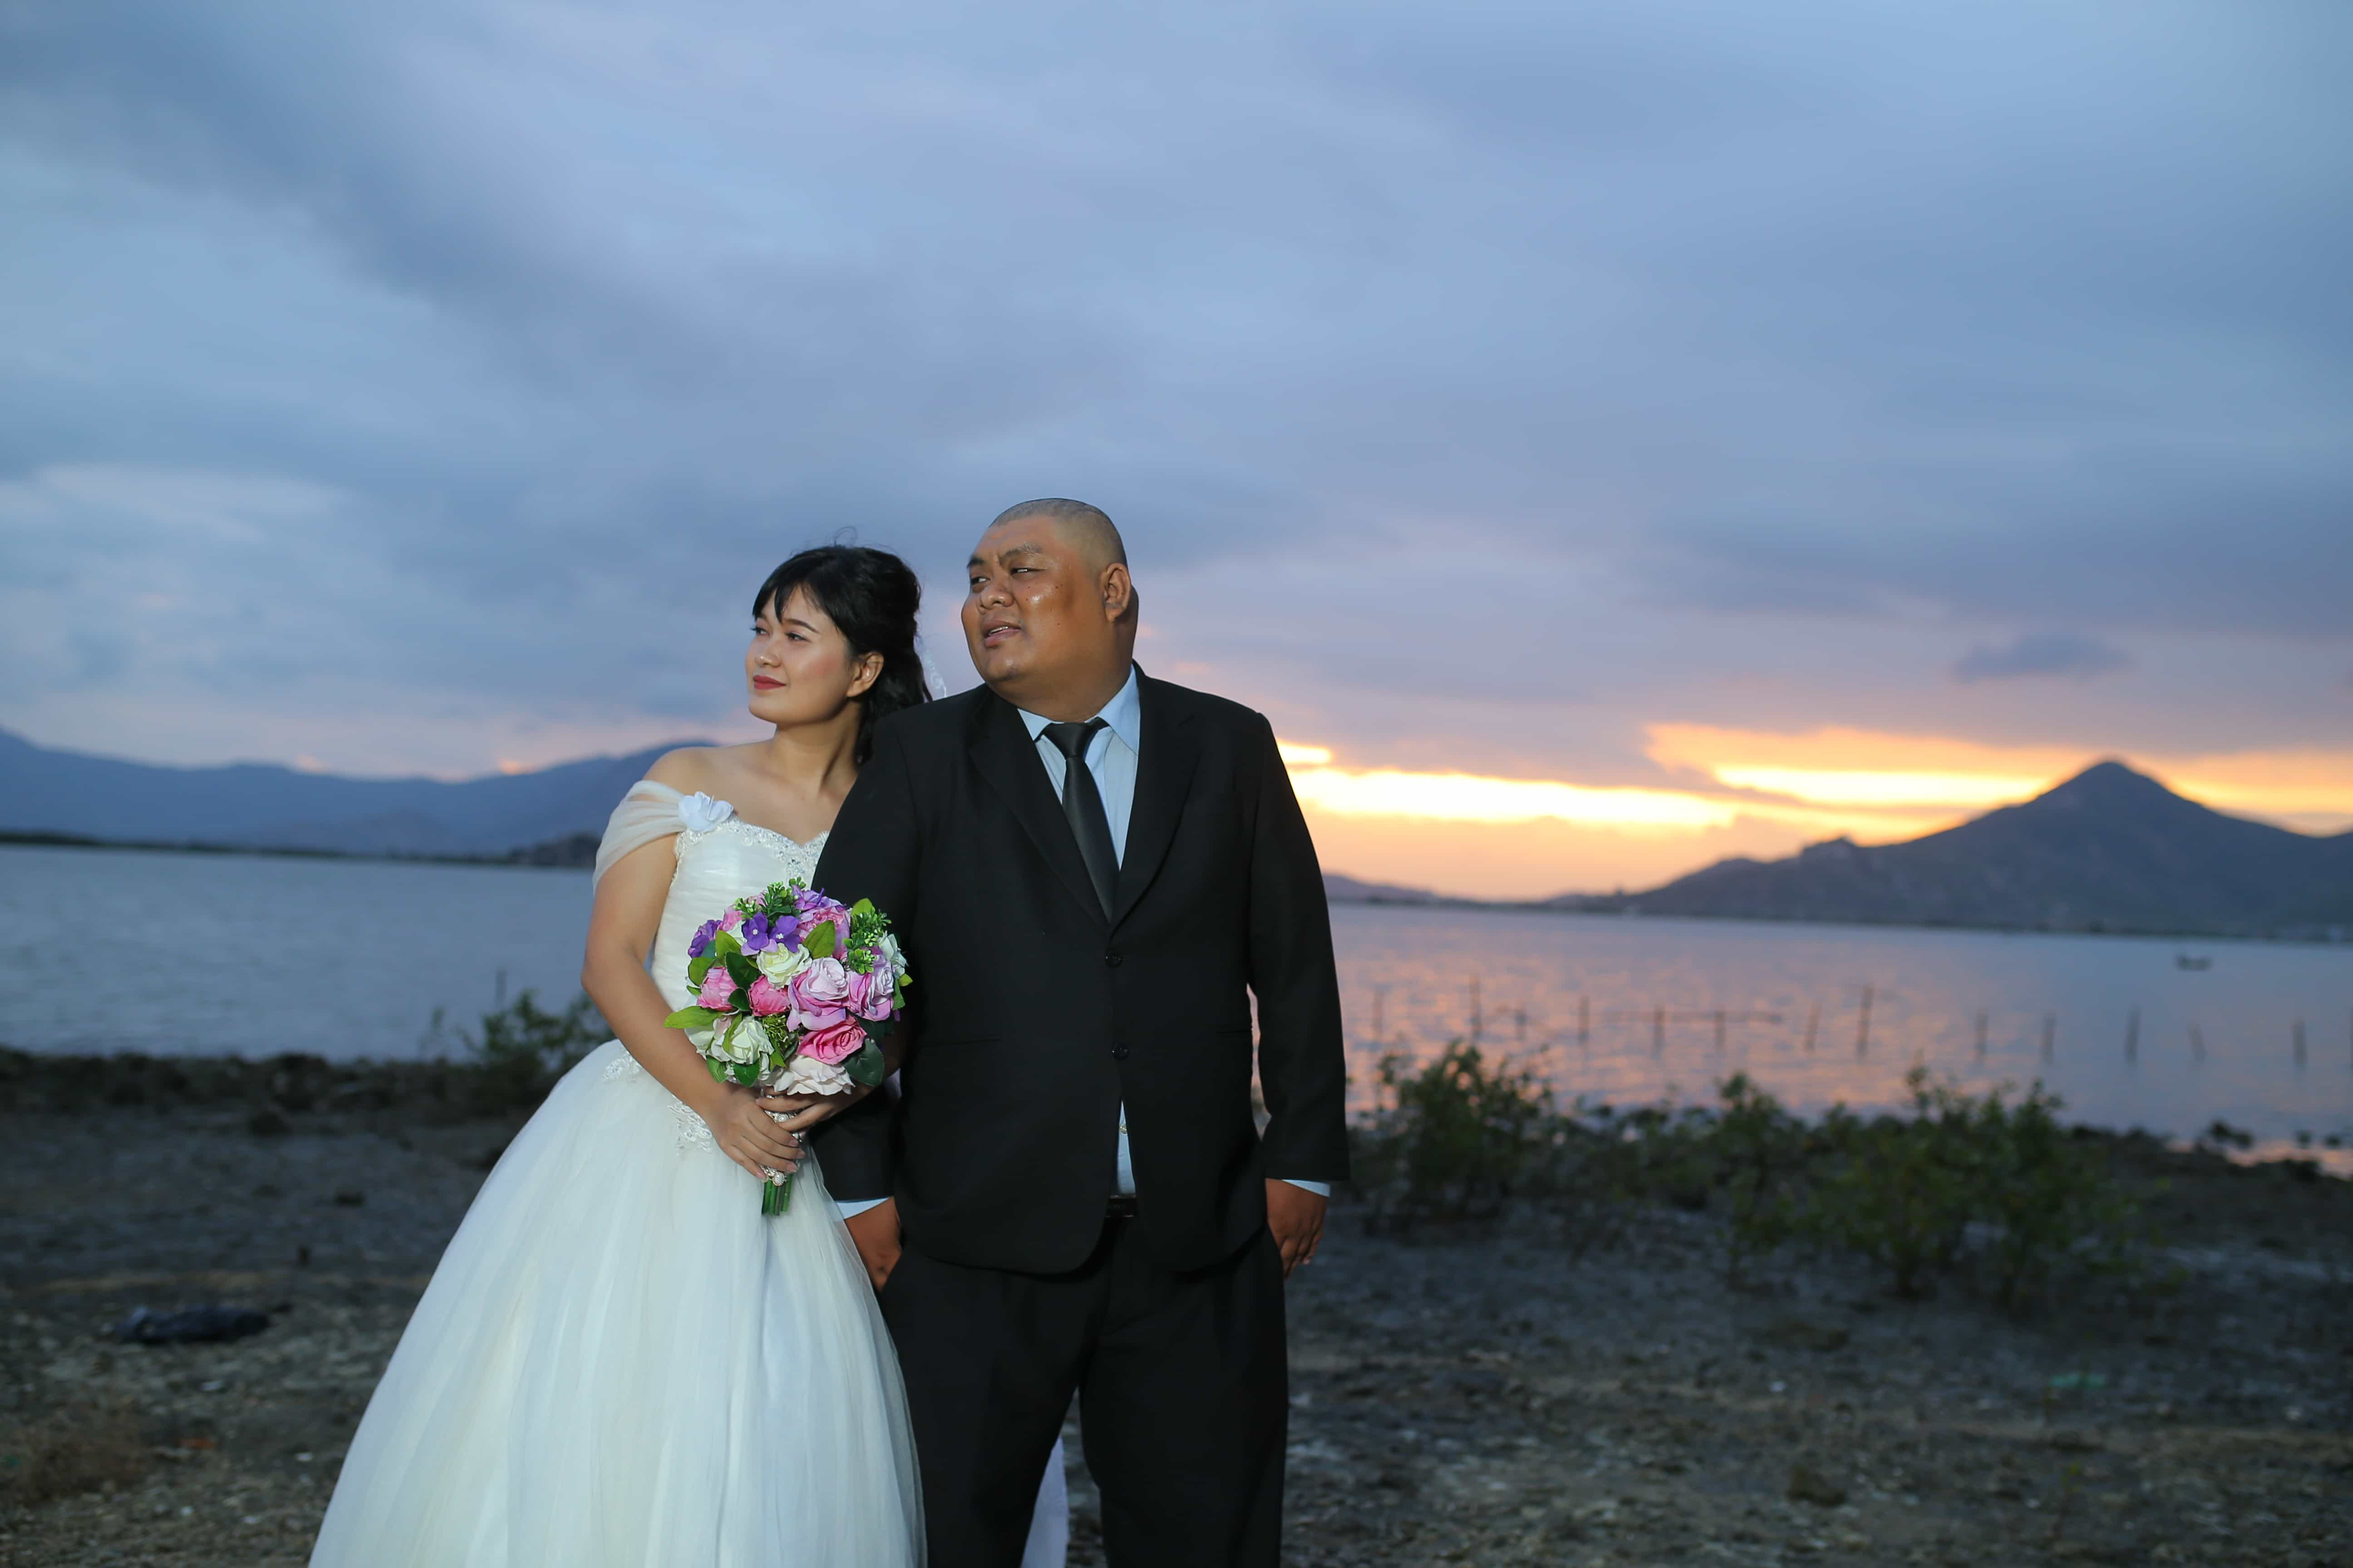
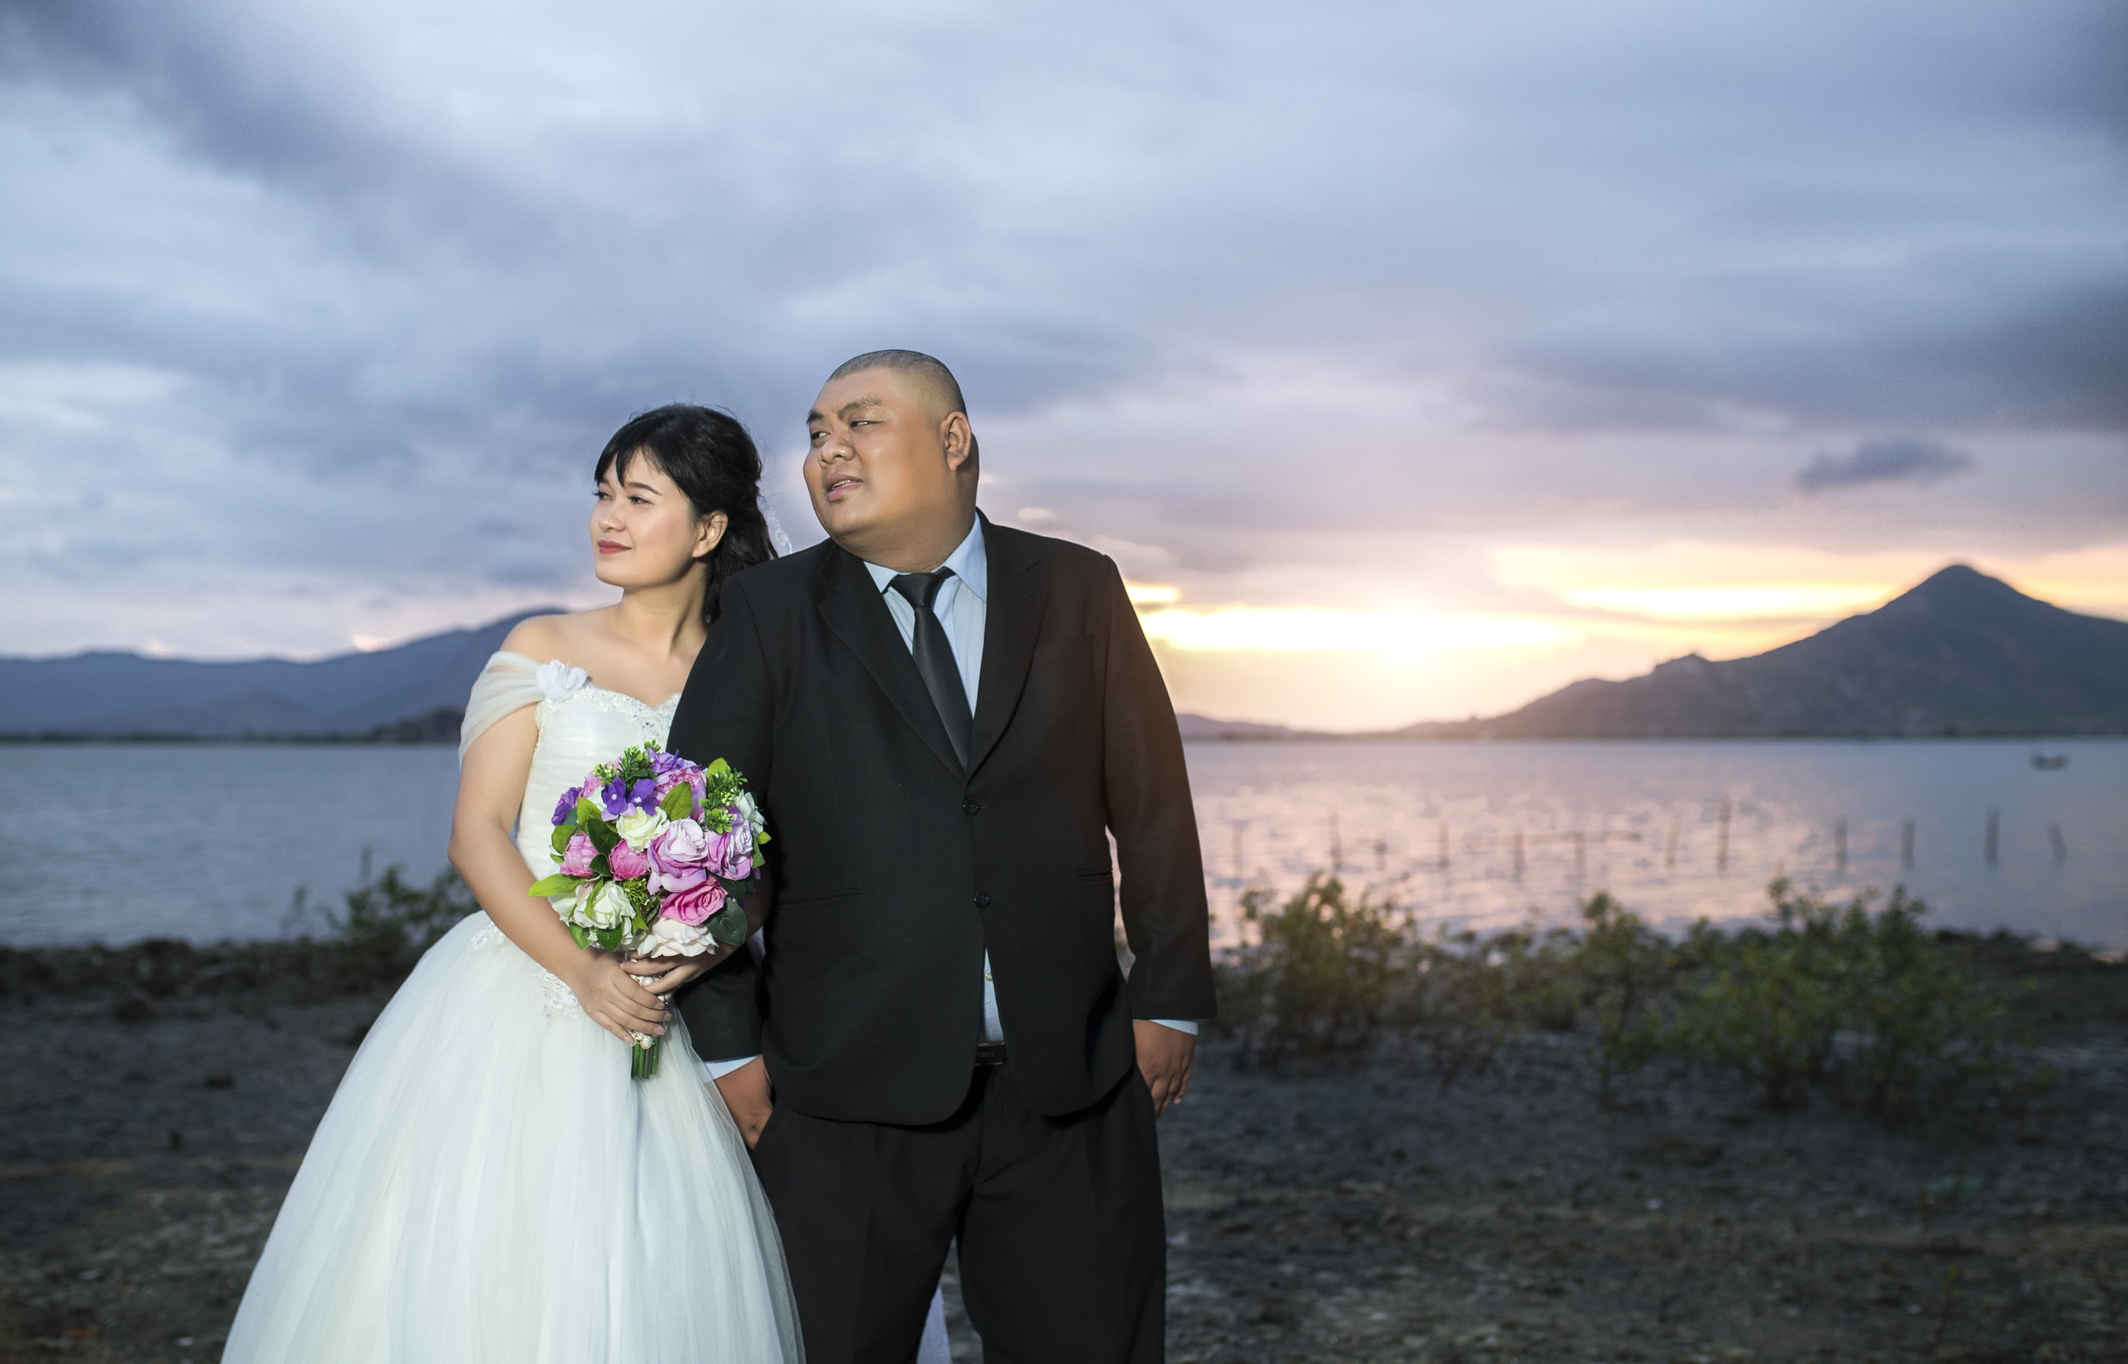
update retouched images

diff --git a/index.html b/index.html
@@ -133,7 +133,7 @@
             font-style: normal;
             font-size: 50px;
         }
-
+        
         h1,
         h2,
         h3,
@@ -157,7 +157,12 @@
             font-weight: normal;
             font-style: normal;
         }
-
+        @media screen and (max-width: 480px) {
+            .header_logo { font-size:15px; }
+        }
+        @media screen and (max-width: 320px) {
+            .header_logo { font-size:10px; }
+        }
         body,
         p,
         .share-event,
@@ -273,7 +278,7 @@
         <!-- MENU -->
         <div class="menu-panel">
 
-            <h3 class="our_initial ">
+            <h3 class="our_initial text-center ">
                 <a class="page-scroll logo-init" href="#page-top">
                     <img src="img/logo.png">
                 </a>
@@ -460,7 +465,7 @@
                                                 <br><br><br>
                                                 <h2>Proposal</h2>
                                                 <h3>24/01/2018</h3>
-                                                <p>Big Supprise<br> He asked and she said: "Yes". <br><br><br><br><br><br></p>
+                                                <p>Big Surprise<br> He asked and she said: "Yes". <br><br><br><br><br><br></p>
                                             </div>
                                         </div>
                                         <div class="cd-timeline-block">
